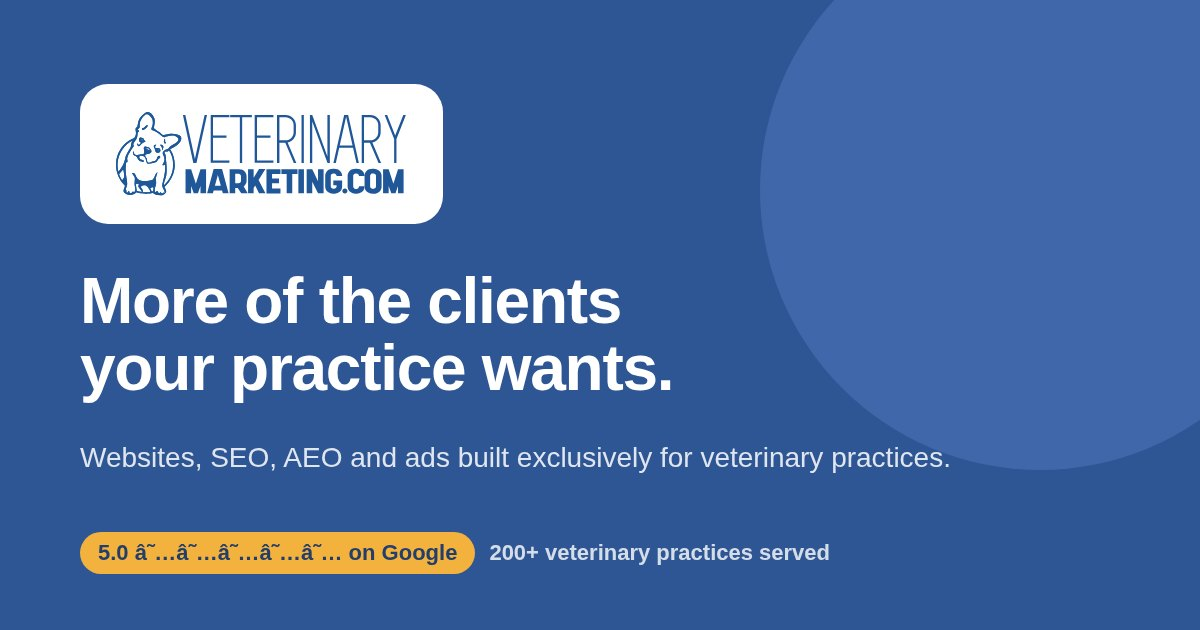
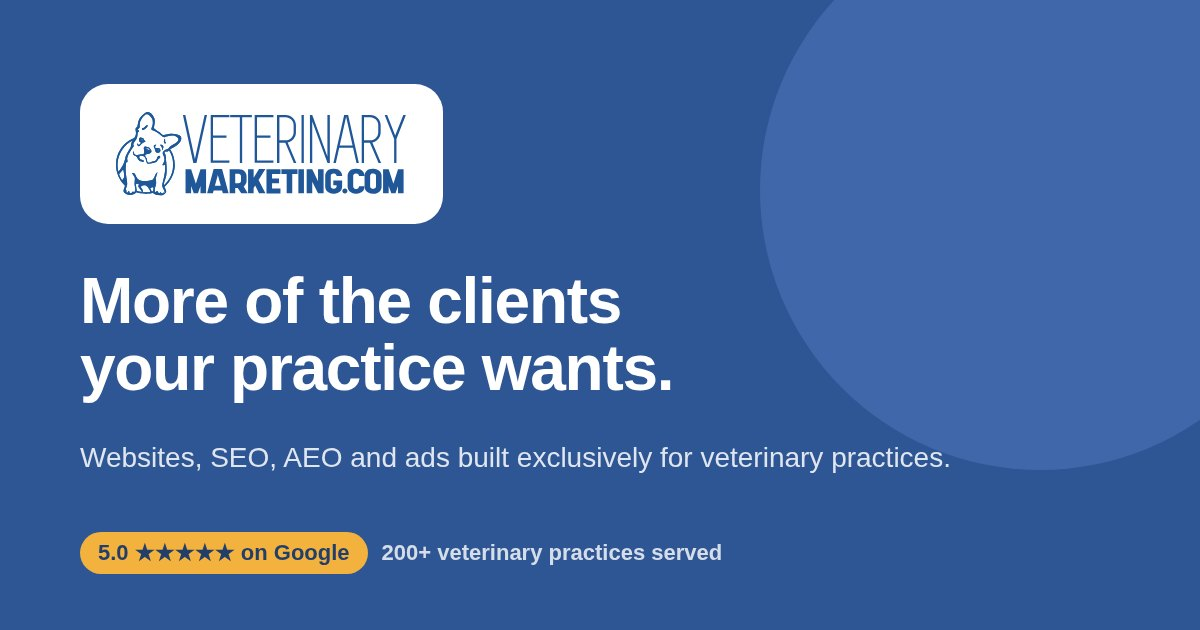
OG image: fix star glyph encoding

Changed region(s): [[0.0925, 0.8444, 0.7092, 0.9349]]

diff --git a/tools/r3_launchprep.py b/tools/r3_launchprep.py
@@ -21,7 +21,7 @@ work = pathlib.Path('/tmp/iconsrv'); work.mkdir(exist_ok=True)
 (work / 'icon.svg').write_bytes(ICON_SVG.read_bytes()); (work / 'logo.svg').write_bytes(LOGO_SVG.read_bytes())
 (work / 'icon.html').write_text('<html><body style="margin:0;background:transparent"><div style="width:512px;height:512px;display:flex;align-items:center;justify-content:center"><img src="icon.svg" style="height:440px"></div></body></html>')
 (work / 'tile.html').write_text('<html><body style="margin:0"><div style="width:512px;height:512px;background:#2F5694;border-radius:112px;display:flex;align-items:center;justify-content:center"><img src="icon.svg" style="height:360px;filter:brightness(0) invert(1)"></div></body></html>')
-(work / 'og.html').write_text('''<html><body style="margin:0"><div style="width:1200px;height:630px;background:#2F5694;position:relative;font-family:-apple-system,Helvetica,Arial,sans-serif;overflow:hidden">
+(work / 'og.html').write_text('''<html><head><meta charset="utf-8"></head><body style="margin:0"><div style="width:1200px;height:630px;background:#2F5694;position:relative;font-family:-apple-system,Helvetica,Arial,sans-serif;overflow:hidden">
 <div style="position:absolute;right:-120px;top:-90px;width:560px;height:560px;border-radius:50%;background:rgba(116,155,234,0.25)"></div>
 <div style="position:absolute;left:80px;top:84px;background:#fff;border-radius:28px;padding:28px 36px;display:inline-flex"><img src="logo.svg" style="height:84px"></div>
 <div style="position:absolute;left:80px;top:268px;color:#fff;font-size:64px;font-weight:800;line-height:1.05;letter-spacing:-0.02em;max-width:900px">More of the clients<br>your practice wants.</div>
